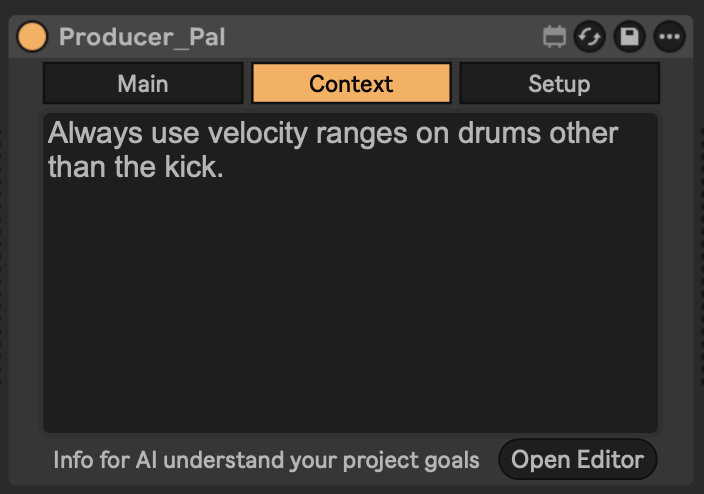
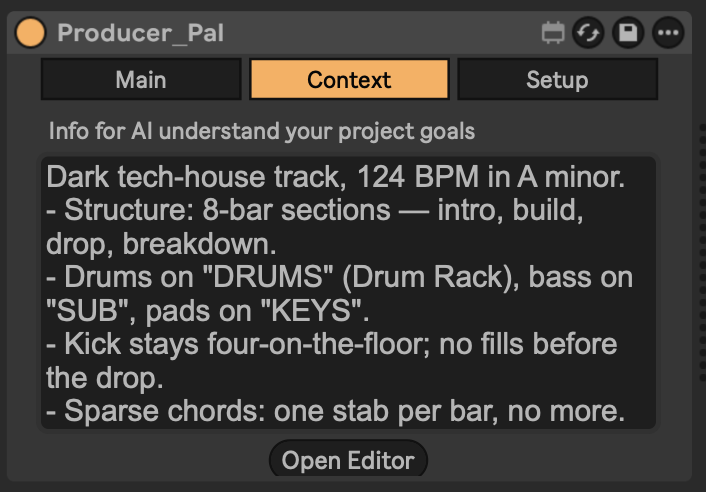
docs: update device page for the 2.0.0 device UI
New Main/Context/Setup screenshots. Setup gains a Behavior section
(Small Model Mode + the Notation picker) and Direct Live API moves under
Debug. The Context tab is now described as project context, one of three
layers alongside global context and memory, and the note about disabling
the Context tool points at the Chat UI's Tools settings.

Changed region(s): [[0.0625, 0.2439, 0.9375, 0.9756], [0.0, 0.0, 1.0, 0.2134]]

diff --git a/docs/guide/device.md b/docs/guide/device.md
@@ -29,13 +29,14 @@ error message.
 
 <img src="/img/device-context-tab.png" alt="Context tab" width="500"/>
 
-Project memory helps AI understand your creative goals and preferences. Memory
-is saved with your Ableton Live Set file. To stop AI from reading your memory,
-clear the text area; to stop AI from writing to it, disable the `ppal-context`
-tool on the Setup tab.
+The Context tab holds your **project context**: notes about this Live Set — its
+genre, structure, track layout, and the rules you want AI to follow — included
+in every conversation. It is saved in this project's Producer Pal device, so it
+travels with the Live Set (and is gone if you delete the device). AI can read
+and edit these notes too.
 
-- **Memory text area** - Your project-specific instructions and preferences
-- **Open Editor** - Open the memory editor in a larger view in your web browser
+- **Context text area** - Your project-specific notes and preferences
+- **Open Editor** - Open the context editor in a larger view in your web browser
 
 Example notes:
 
@@ -43,29 +44,55 @@ Example notes:
 - "Use occasional triplet rhythms"
 - "Use strong harmonies with one chord per bar"
 
+To stop AI from reading your project context, clear the text area. To stop AI
+from writing to it, turn off the Context tool — in the built-in
+[Chat UI](/guide/chat-ui) that's the **Context** checkbox under Tools settings;
+other MCP clients have their own way to disable a tool.
+
+::: tip Project context is one of several layers
+
+Project context lives with this Live Set. **Global context** (notes that apply
+across all your projects) and **memory** (facts AI records about you as you
+work) are stored on your computer instead, and are edited in the
+[Chat UI](/guide/chat-ui)'s context editor — the same editor the **Open Editor**
+button opens.
+
+:::
+
 ## Setup Tab
 
 <img src="/img/device-setup-tab.png" alt="Setup tab" width="500"/>
 
 ### Server
 
+- **Status light** - Green while the server is running
 - **Start/Stop** - Control the server that connects AI to Live
 - **Port** - Network port for connections (default: 3350, change only if another
   app uses this port)
 - **Timeout** - Maximum time for AI operations (default: 30 sec, increase on
   slow computers if experiencing timeouts during complex operations)
+
+### Behavior
+
+These settings belong to the device, not to one conversation: they apply to the
+built-in [Chat UI](/guide/chat-ui), external MCP clients, and the
+[REST API](/guide/rest-api) alike.
+
 - **Small Model Mode** - Reduces prompt size for local/smaller models like
   Ollama and LM Studio
-- **Direct Live API** - Enables the opt-in
-  [Direct Live API](/features#ppal-live-api) tool, giving the AI direct access
-  to the [Ableton Live Object Model](https://docs.cycling74.com/apiref/lom/) for
-  scripting, debugging, and covering gaps in Producer Pal's specialized tools
+- **Notation** - How AI reads and writes clip notes: `barbeat` (the default),
+  `midi-json`, or `stark`. See
+  [custom notation](/features#custom-music-notation)
+
+AI is taught the notation at the start of a conversation, so switching notation
+takes full effect in a **new conversation**. In an ongoing chat, AI can still
+read your existing notes in the new notation but will keep writing the old one.
 
 ### Sample Folder
 
 Configure a folder of audio samples to expose to the
 [Library](/features#ppal-library) tool. Items from this folder appear before
-Live's library results in searches.
+Live's library results in searches. Shows `(none)` when no folder is configured.
 
 - **Choose** - Select your sample folder
 - **Clear** - Remove the configured folder
@@ -75,5 +102,9 @@ Live's library results in searches.
 For development and diagnostic purposes. Generally not needed for day-to-day
 use.
 
+- **Direct Live API** - Enables the opt-in
+  [Direct Live API](/features#ppal-live-api) tool, giving AI direct access to
+  the [Ableton Live Object Model](https://docs.cycling74.com/apiref/lom/) for
+  scripting, debugging, and covering gaps in Producer Pal's specialized tools
 - **JSON Output** - Display raw JSON in tool responses
 - **Verbose Logs** - Enable detailed logging in the Max console
